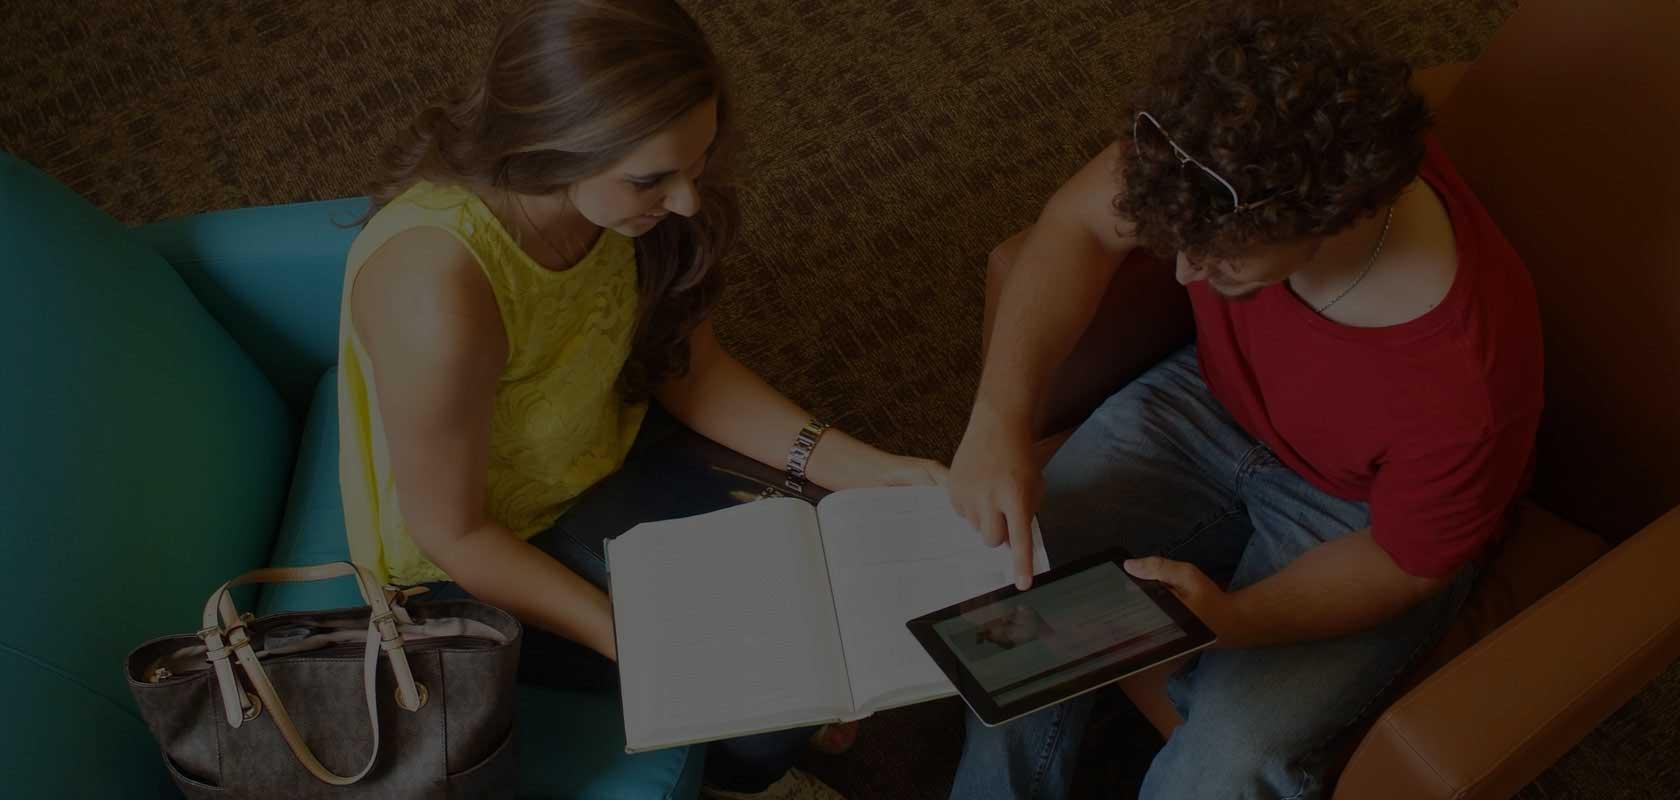
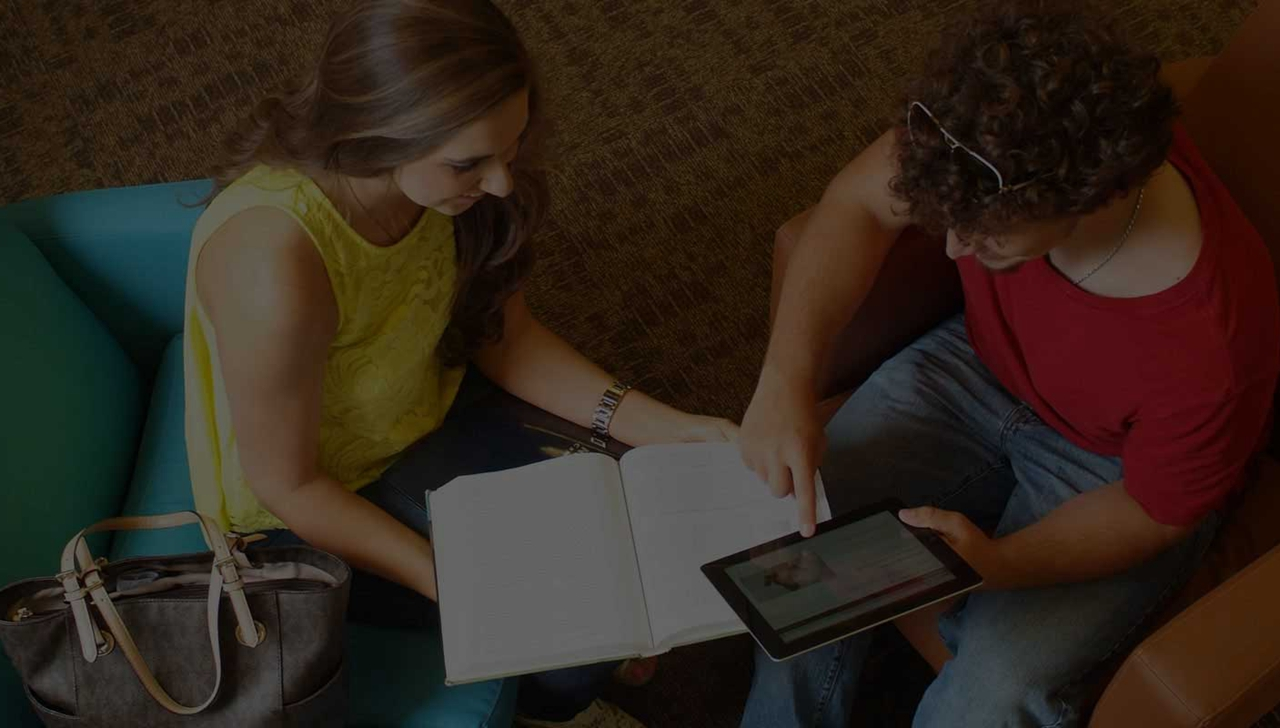
添加头部

diff --git a/app/components/Banner/index.js b/app/components/Banner/index.js
@@ -5,27 +5,49 @@ import './Banner.scss'
 const BgElement = Element.BgElement
 
 export default class Banner extends Component {
+  state = {
+    bannerHeight: 580
+  }
+
+  componentDidMount() {
+    this.resizeWindow()
+    window.addEventListener('resize', this.resizeWindow)
+  }
+
+  resizeWindow = () => {
+    this.setState({
+      bannerHeight: document.body.offsetWidth * 580 / 1280
+    })
+  }
+
   render() {
+    const { bannerHeight } = this.state
+
     return (
-      <BannerAnim prefixCls='banner-user' autoPlay>
+      <BannerAnim
+        prefixCls='banner-user'
+        id='banner-user'
+        style={{height: bannerHeight, fontSize: bannerHeight * 0.06}}
+      >
         <Element
           prefixCls='banner-user-elem'
           key='0'
         >
           <BgElement
             key='bg'
-            className='bg'
-            style={{
-              background: '#364d79'
-            }}
+            className='bg bg1'
           />
-          <TweenOne className='banner-user-title' animation={{ y: 30, opacity: 0, type: 'from' }}>
-            Ant Motion Banner
+          <TweenOne
+            className='banner-user-title'
+            animation={{ y: 30, opacity: 0, type: 'from' }}
+          >
+            全银带你看世界
           </TweenOne>
-          <TweenOne className='banner-user-text'
+          <TweenOne
+            className='banner-user-text'
             animation={{ y: 30, opacity: 0, type: 'from', delay: 100 }}
           >
-            The Fast Way Use Animation In React
+            小语种、商业翻译、出国留学、签证
           </TweenOne>
         </Element>
         <Element
@@ -34,18 +56,19 @@ export default class Banner extends Component {
         >
           <BgElement
             key='bg'
-            className='bg'
-            style={{
-              background: '#64CBCC'
-            }}
+            className='bg bg2'
           />
-          <TweenOne className='banner-user-title' animation={{ y: 30, opacity: 0, type: 'from' }}>
-            Ant Motion Banner
+          <TweenOne
+            className='banner-user-title'
+            animation={{ y: 30, opacity: 0, type: 'from' }}
+          >
+            南宁全银教育
           </TweenOne>
-          <TweenOne className='banner-user-text'
+          <TweenOne
+            className='banner-user-text'
             animation={{ y: 30, opacity: 0, type: 'from', delay: 100 }}
           >
-            The Fast Way Use Animation In React
+            更专业、更便捷的外语培训
           </TweenOne>
         </Element>
       </BannerAnim>

diff --git a/app/components/Header/index.js b/app/components/Header/index.js
@@ -1,0 +1,52 @@
+import React, { Component } from 'react'
+import {Link} from 'react-router-dom'
+import {DropdownButton, MenuItem} from 'react-bootstrap'
+import './Header.scss'
+
+export default class Header extends Component {
+  state = {
+    headerHeight: 83
+  }
+
+  componentDidMount() {
+    this.resizeWindow()
+    window.addEventListener('resize', this.resizeWindow)
+  }
+
+  resizeWindow = () => {
+    this.setState({
+      headerHeight: document.getElementById('banner-user').offsetHeight * 0.15
+    })
+  }
+
+  render() {
+    const {headerHeight} = this.state
+    return (
+      <div className='header' style={{height: headerHeight}}>
+        <ul className='contact'>
+          <li><i className='iconfont icon-dianhua' />0771-3924246</li>
+          <li><i className='iconfont icon-msnui-tel' />18587962889</li>
+          <li><i className='iconfont icon-qq' />0771-3924246</li>
+        </ul>
+        <div className='menu'>
+          <Link to='/'>首页</Link>
+          <Link to='/aboutus'>机构简介</Link>
+          <DropdownButton
+            bsStyle='default'
+            title='培训课程'
+            id='menu_dropdown'
+          >
+            <MenuItem eventKey='1'>Action</MenuItem>
+            <MenuItem eventKey='2'>Another action</MenuItem>
+            <MenuItem eventKey='3' active>
+        Active Item
+            </MenuItem>
+            <MenuItem divider />
+            <MenuItem eventKey='4'>Separated link</MenuItem>
+          </DropdownButton>
+        </div>
+        <div className='header_logo' style={{width: headerHeight * 1.6}} />
+      </div>
+    )
+  }
+}

diff --git a/app/styles/_base.scss b/app/styles/_base.scss
@@ -1,1 +1,26 @@
 // Settings go here
+html, body, div, span, applet, object, iframe, h1, h2, h3, 
+h4, h5, h6, p, blockquote, pre, a, abbr, acronym, 
+address, big, cite, code, del, dfn, em, font, img, ins, 
+kbd, q, s, samp, small, strike, strong, sub, sup, tt, 
+var, dl, dt, dd, ol, ul, li, fieldset, form, label, legend, 
+table, caption, tbody, tfoot, thead, tr, th, td { 
+margin: 0; 
+padding: 0; 
+border: 0; 
+outline: 0; 
+font-weight: inherit; 
+font-style: inherit; 
+font-size: 100%; 
+font-family: inherit; 
+vertical-align: baseline; 
+} 
+:focus { outline: 0;} 
+a, a:link, a:visited, a:hover, a:active{color: inherit;text-decoration:none} 
+table { border-collapse: separate;border-spacing: 0;} 
+th, td {text-align: left; font-weight: normal;} 
+img, iframe {border: none; text-decoration:none;} 
+ol, ul {list-style: none;} 
+input, textarea, select, button {font-size: 100%;font-family: inherit;} 
+select {margin: inherit;} 
+hr {margin: 0;padding: 0;border: 0;color: #000;background-color: #000;height: 1px}

diff --git a/app/components/Banner/Banner.scss b/app/components/Banner/Banner.scss
@@ -2,24 +2,12 @@
   padding: 0;
 }
 
-.banner-user {
-  height: 220px;
-}
-
 .banner-user-elem {
   position: relative;
   overflow: hidden;
+  font-size: inherit;
   color: #fff;
   text-align: center;
-}
-
-.banner-user-elem .banner-user-title {
-  top: 40%;
-  font-size: 32px;
-}
-
-.banner-user-elem .banner-user-text {
-  top: 40%;
 }
 
 .banner-anim-elem .bg {
@@ -29,4 +17,28 @@
   width: 100%;
   height: 100%;
   overflow: hidden;
+  font-size: inherit;
+  background-size: 100% auto;
+}
+
+.bg1 {
+  background: url('./images/banner1.jpg');
+  background-size: 100% 100%;
+}
+
+.bg2 {
+  background: url('./images/banner2.jpg');
+  background-size: 100% 100%;
+}
+
+.banner-user-elem .banner-user-title {
+  top: 50%;
+  font-size: 1.3em;
+  letter-spacing: 4px;
+}
+
+.banner-user-elem .banner-user-text {
+  top: 50%;
+  font-size: 0.7em;
+  letter-spacing: 3px;
 }

diff --git a/app/components/Header/Header.scss b/app/components/Header/Header.scss
@@ -1,0 +1,50 @@
+$ThemeColor: #f8b139;
+
+.header {
+  position: absolute;
+  top: 0;
+  z-index: 100;
+  box-sizing: border-box;
+  width: 100%;
+  font-size: 0;
+  color: #fff;
+}
+
+.contact,
+.menu {
+  display: flex;
+  align-items: center;
+  height: 50%;
+  padding-left: 28%;
+  font-size: 16px;
+}
+
+.contact {
+  overflow: hidden;
+  background-color: rgba($color: #555, $alpha: 0.8);
+
+  li {
+    margin-right: 2%;
+
+    > i {
+      display: inline-block;
+      margin-right: 5px;
+      color: $ThemeColor;
+    }
+  }
+}
+
+.menu {
+  background-color: rgba($color: #000, $alpha: 0.6);
+}
+
+.header_logo {
+  position: absolute;
+  top: 0;
+  left: 10%;
+  height: 100%;
+  background: url('/app/assets/logo.png') center center no-repeat;
+  background-color: $ThemeColor;
+  background-size: auto 100%;
+  border-radius: 4px;
+}

diff --git a/app/index.tpl.html b/app/index.tpl.html
@@ -9,6 +9,7 @@
     <meta name="description" content="<%= htmlWebpackPlugin.options.description %>" >
     <meta name="viewport" content="width=device-width,minimum-scale=1.0,maximum-scale=1.0,initial-scale=1.0,user-scalable=no">
     <link rel="stylesheet" href="https://maxcdn.bootstrapcdn.com/bootstrap/3.3.7/css/bootstrap.min.css" integrity="sha384-BVYiiSIFeK1dGmJRAkycuHAHRg32OmUcww7on3RYdg4Va+PmSTsz/K68vbdEjh4u" crossorigin="anonymous">
+    <link rel="stylesheet" href="https://at.alicdn.com/t/font_573292_9co338dxxcvoyldi.css">
 </head>
 <body>
     <div id="root"></div>

diff --git a/app/components/Home/index.js b/app/components/Home/index.js
@@ -1,5 +1,6 @@
 import React, { Component } from 'react'
 import Banner from '../Banner'
+import Header from '../Header'
 import './Home.scss'
 
 export default class Home extends Component {
@@ -7,6 +8,7 @@ export default class Home extends Component {
     return (
       <div className='home'>
         <Banner />
+        <Header />
       </div>
     )
   }

diff --git a/webpack.config.js b/webpack.config.js
@@ -25,7 +25,7 @@ module.exports = {
       'redux',
       'redux-thunk',
       'isomorphic-fetch',
-      'react-bootstrap',
+      'react-bootstrap'
       'react-router-bootstrap'
     ]
   },

diff --git a/app/styles/app.scss b/app/styles/app.scss
@@ -1,4 +1,5 @@
 @import 'animate';
+@import 'base';
 @import './vendor/rc-banner-anim.min.css';
 * {
   margin: 0;

diff --git a/app/components/Home/Home.scss b/app/components/Home/Home.scss
@@ -1,3 +1,3 @@
 .home {
-  background-color: #fff;
+  position: relative;
 }

diff --git a/app/styles/theme.scss b/app/styles/theme.scss
@@ -1,0 +1,1 @@
+$ThemeColor: #6dffff;
